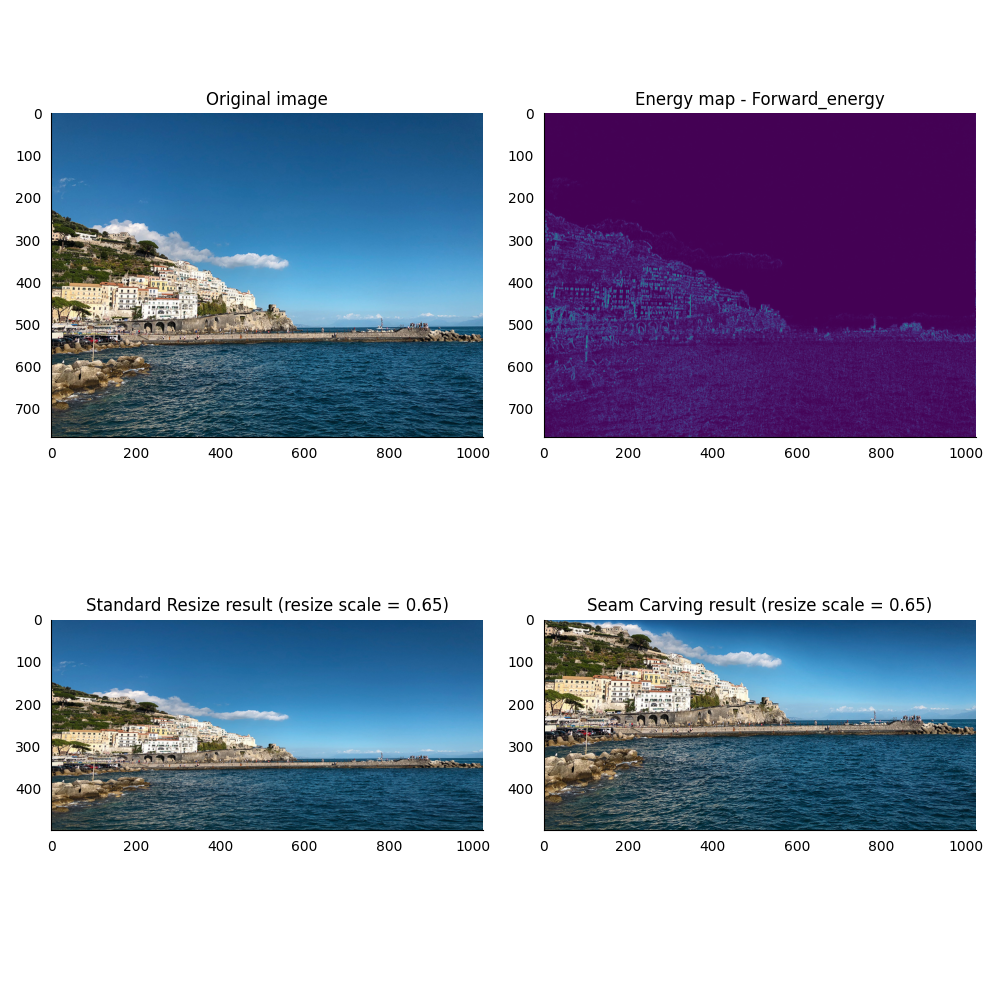
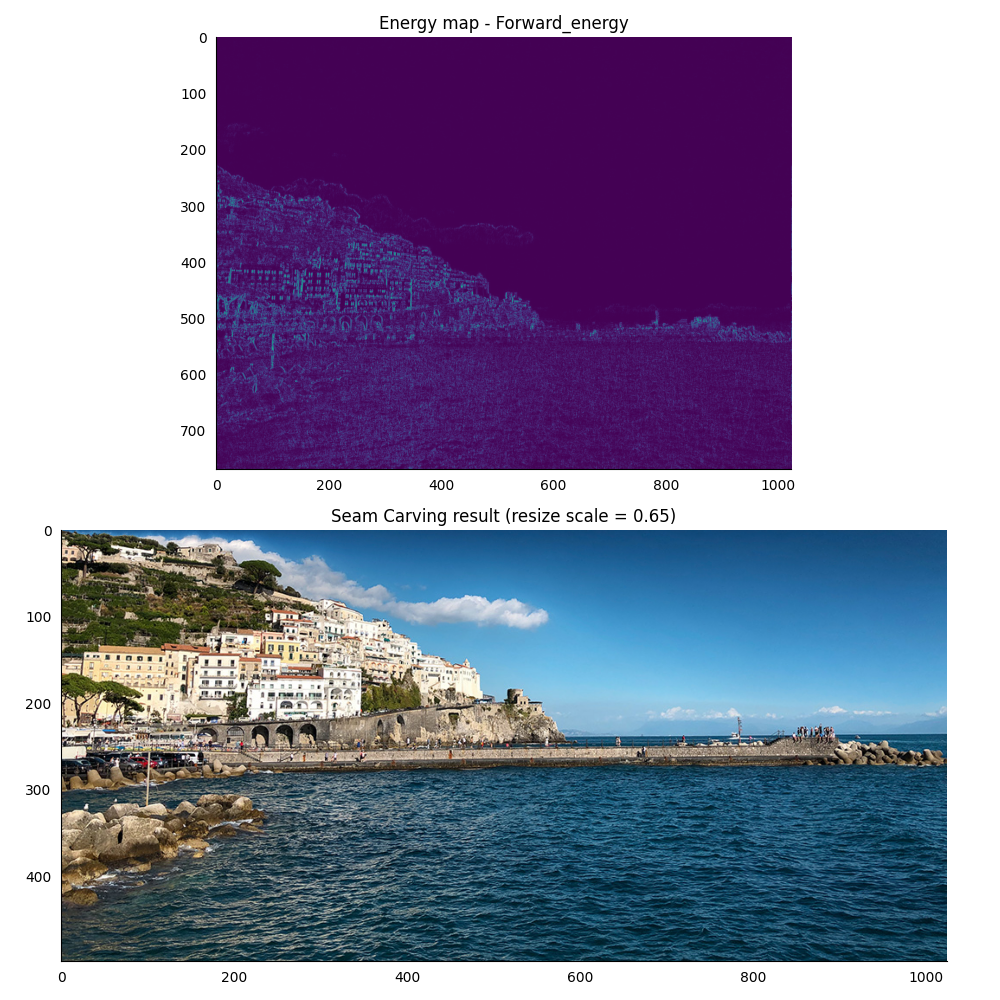
refactor(sc): change plot figures

diff --git a/src/sc.py b/src/sc.py
@@ -134,7 +134,7 @@ def calculateEnergy(img):
     return energy_map
 
 # Other functions
-def standardResize(img, scale, seam_orientation):
+def standardResize(img, img_name, scale, seam_orientation):
     """
     Resize the image without considering its content
     """
@@ -149,6 +149,11 @@ def standardResize(img, scale, seam_orientation):
         dsize = (width, height)
         std_resize_image = cv2.resize(img, dsize)
 
+    std_resize_image = cv2.cvtColor(std_resize_image, cv2.COLOR_BGR2RGB)
+    std_resize_image_name = img_name[:-4] + "_std.jpg"
+    std_resize_path = "../results/resized_images/" + std_resize_image_name
+    cv2.imwrite(std_resize_path, std_resize_image)
+
     return std_resize_image
 
 def plotResult(img, out, std_resize_image, energyFunction, scale, img_name):
@@ -161,19 +166,11 @@ def plotResult(img, out, std_resize_image, energyFunction, scale, img_name):
     # Fix message blinking when hover
     fig.canvas.toolbar.set_message = lambda x: ""
 
-    plt.subplot(221)
-    plt.imshow(img)
-    plt.title('Original image')
-
-    plt.subplot(222)
+    plt.subplot(211)
     plt.imshow(energyFunction(img))
     plt.title('Energy map - ' + (energyFunction.__name__).capitalize())
 
-    plt.subplot(223)
-    plt.imshow(std_resize_image)
-    plt.title('Standard Resize result (resize scale = ' + str(scale) + ')')
-
-    plt.subplot(224)
+    plt.subplot(212)
     plt.imshow(out)
     plt.title('Seam Carving result (resize scale = ' + str(scale) + ')')
 
@@ -254,7 +251,7 @@ if __name__ == '__main__':
     IMG_PATH = "../images/" + IMG_NAME
 
     input_image = cv2.cvtColor(cv2.imread(IMG_PATH), cv2.COLOR_BGR2RGB)
-    std_resize_image = standardResize(input_image, SCALE, SEAM_ORIENTATION)
+    std_resize_image = standardResize(input_image, IMG_NAME, SCALE, SEAM_ORIENTATION)
 
     # Instantiate the energy mapping classes
     be = BackwardEnergy(input_image, SEAM_ORIENTATION)
